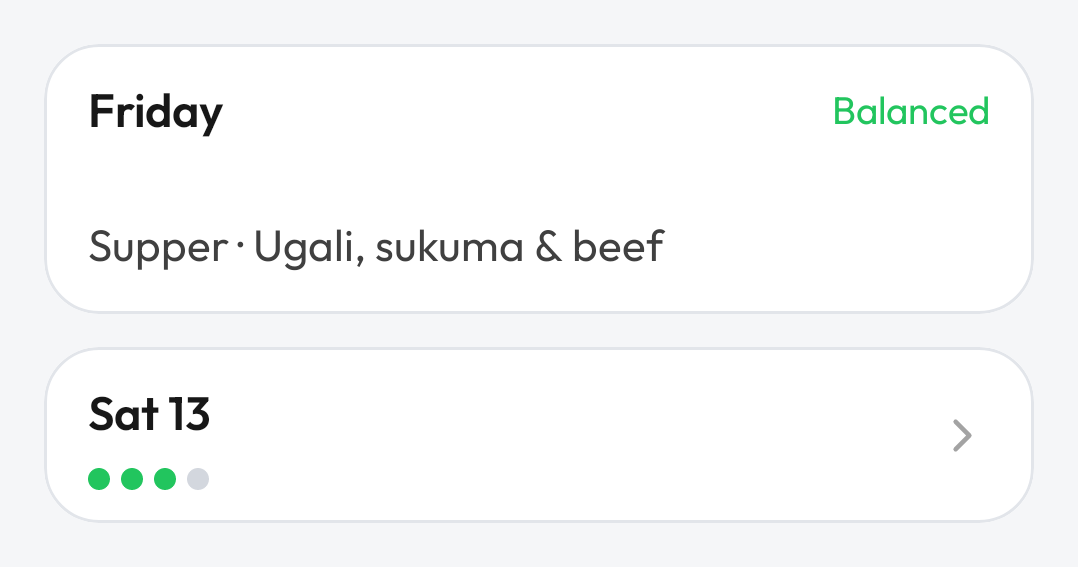
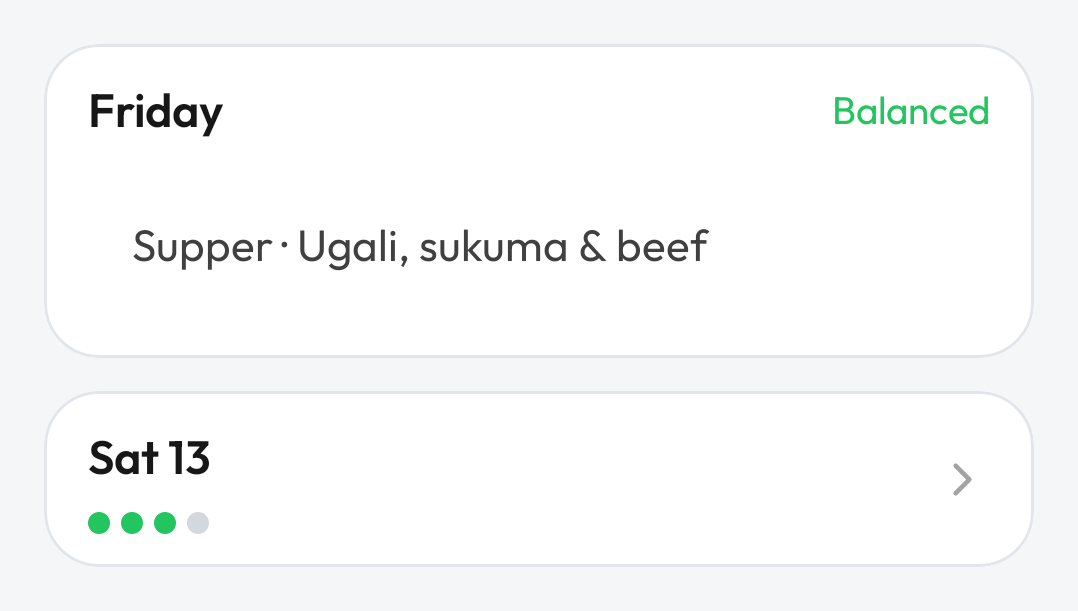
Pad expandable row content and soften the dark focus ring
The expanded body was flush to the card edge; inset it to match the header. Lower the dark focus-ring alpha so it reads as a ring, not a glow. Expandable goldens re-recorded.

diff --git a/jenga/src/commonMain/kotlin/io/github/joelkanyi/jenga/component/expandable/JengaExpandableRow.kt b/jenga/src/commonMain/kotlin/io/github/joelkanyi/jenga/component/expandable/JengaExpandableRow.kt
@@ -70,7 +70,15 @@ public fun JengaExpandableRow(
             }
         }
         if (expanded) {
-            Column(Modifier.fillMaxWidth()) { content() }
+            Column(
+                modifier = Modifier
+                    .fillMaxWidth()
+                    .padding(
+                        start = JengaTheme.spacing.lg,
+                        end = JengaTheme.spacing.lg,
+                        bottom = JengaTheme.spacing.lg,
+                    ),
+            ) { content() }
         }
     }
 }

diff --git a/jenga/src/commonMain/kotlin/io/github/joelkanyi/jenga/foundation/color/JengaColors.kt b/jenga/src/commonMain/kotlin/io/github/joelkanyi/jenga/foundation/color/JengaColors.kt
@@ -247,7 +247,7 @@ public fun jengaDarkColors(): JengaColors = JengaColors(
     overlaySurface = JengaPalette.Black.copy(alpha = 0.55f),
     onOverlay = JengaPalette.White,
     onOverlayMuted = JengaPalette.White.copy(alpha = 0.72f),
-    focusRing = JengaPalette.Orange400.copy(alpha = 0.30f),
+    focusRing = JengaPalette.Orange400.copy(alpha = 0.18f),
     scrim = JengaPalette.Black.copy(alpha = 0.66f),
     isLight = false,
 )
